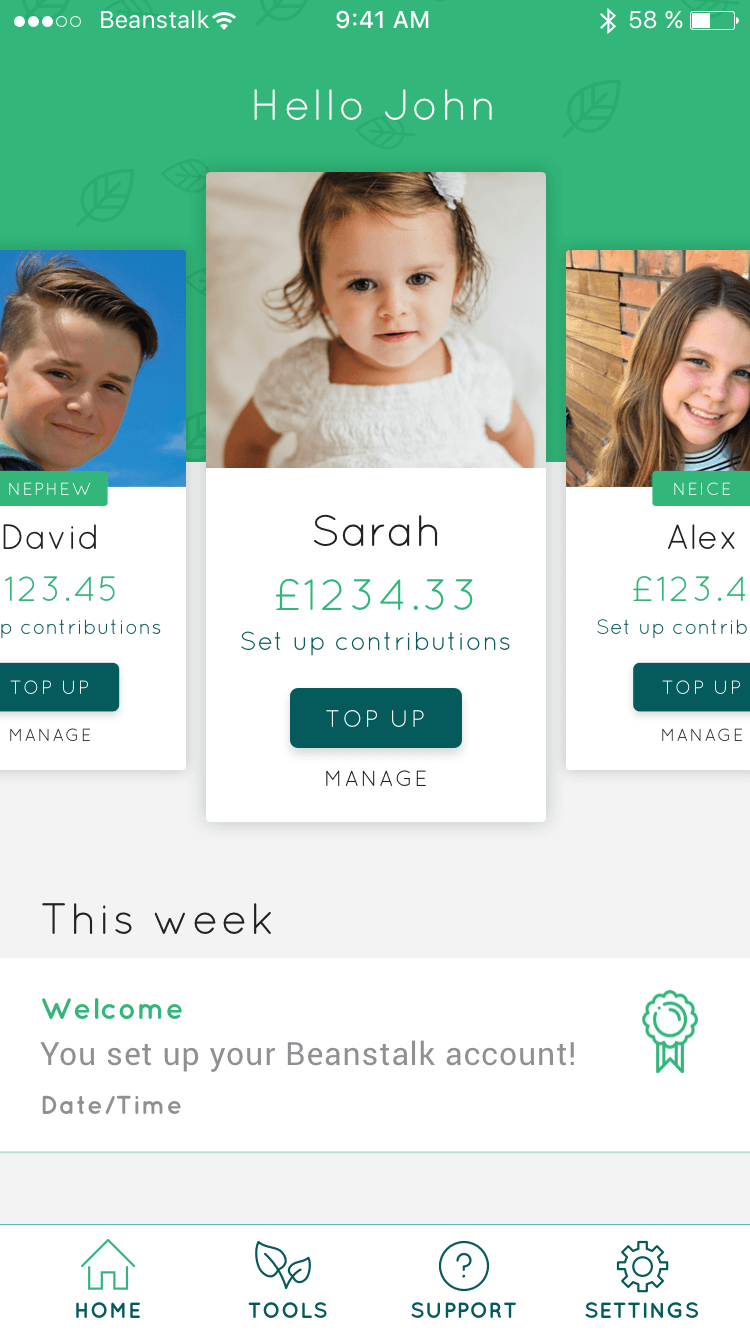
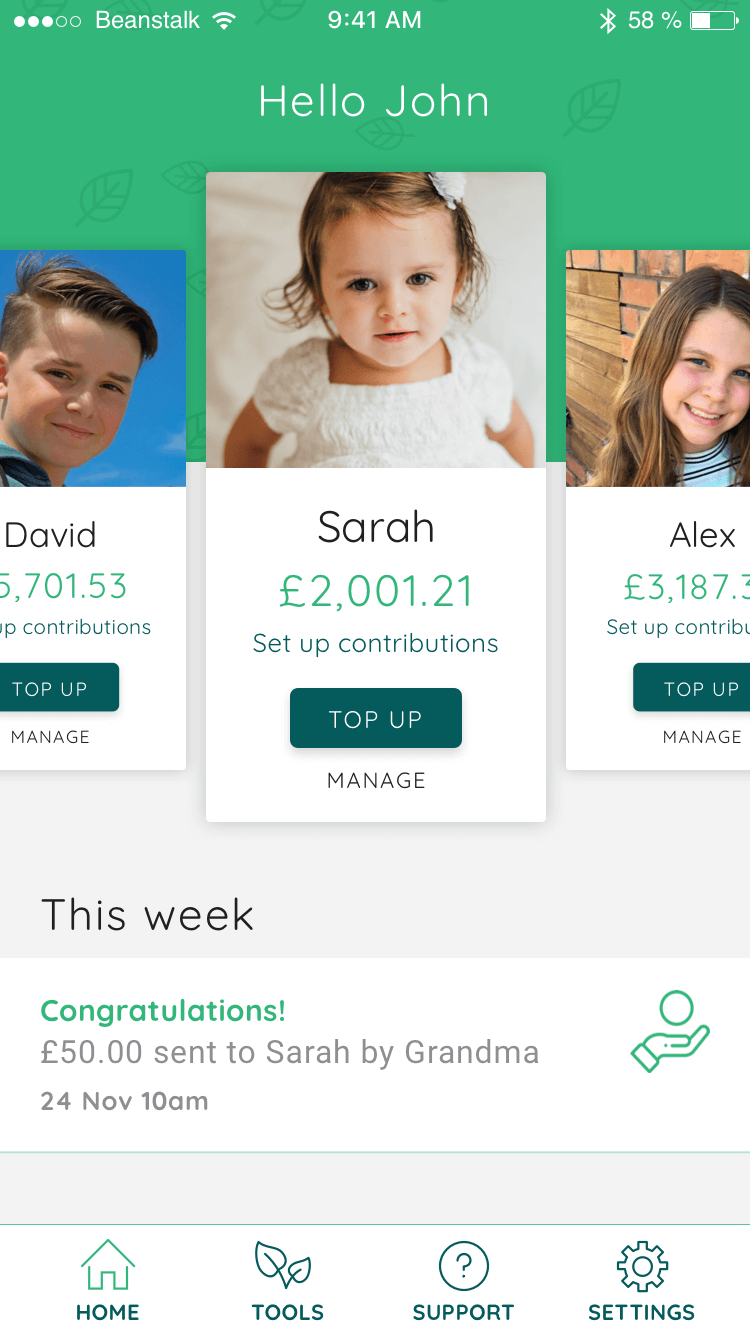
Update

diff --git a/src/components/homepage/homepage.js b/src/components/homepage/homepage.js
@@ -17,8 +17,13 @@ import footerLogoSecondary from './images/footer_logo___secondary.svg';
 
 import iconPiggybank from './images/icon_piggybank.svg';
 import iconCashInHand from './images/icon_cash-in-hand.svg';
+import iconCashInHandSecondary from './images/icon_top-ups--secondary.svg';
 import iconRosette from './images/icon_rosette.svg';
 import iconFamily from './images/icon_family.svg';
+import iconWallet from './images/icon_wallet.svg';
+import iconNameLabel from './images/icon_nameLabel.svg';
+
+const sarahSlug = <span>£50.00 sent to Sarah by Jane Doe.<br/> <strong>Happy birthday to little…</strong></span>
 
 const Homepage = () => {
   return (
@@ -100,16 +105,16 @@ const Homepage = () => {
             </p>
           </Point>
           <div className={styles.Homepage_topUps}>
-            <TopUp recipient={'£100 sent to Sarah'} date={'Date/Time'} order={TOP_UP_ORDER.FIRST}/>
-            <TopUp recipient={'£100 sent to Sarah'} date={'Date/Time'} order={TOP_UP_ORDER.SECOND}/>
-            <TopUp recipient={'£100 sent to Sarah'} date={'Date/Time'} order={TOP_UP_ORDER.THIRD}/>
+            <TopUp title={'Child top up'} recipient={'£100 sent to Sarah'} date={'24 Nov 10am'} icon={iconWallet} order={TOP_UP_ORDER.FIRST}/>
+            <TopUp title={'KidStart Savings'} recipient={'£100 sent to Sarah'} date={'24 Nov 10am'} icon={iconWallet} order={TOP_UP_ORDER.SECOND}/>
+            <TopUp title={'Round Ups Total'} recipient={'£100 sent to Sarah'} date={'24 Nov 10am'} icon={iconWallet} order={TOP_UP_ORDER.THIRD}/>
           </div>
         </Column>
         <Column className={`${styles.Homepage_column___figure} ${styles.Homepage_column___figure___homepage}`}>
           <div className={styles.Homepage_topUps___desktop}>
-            <TopUp recipient={'£100 sent to Sarah'} date={'Date/Time'} order={TOP_UP_ORDER.FIRST}/>
-            <TopUp recipient={'£100 sent to Sarah'} date={'Date/Time'} order={TOP_UP_ORDER.SECOND}/>
-            <TopUp recipient={'£100 sent to Sarah'} date={'Date/Time'} order={TOP_UP_ORDER.THIRD}/>
+            <TopUp title={'Child top up'} recipient={sarahSlug} date={'24 Nov 10am'} icon={iconNameLabel} order={TOP_UP_ORDER.FIRST}/>
+            <TopUp title={'KidStart Savings'} recipient={'£100 sent to Sarah'} date={'24 Nov 10am'} icon={iconCashInHandSecondary} order={TOP_UP_ORDER.SECOND}/>
+            <TopUp title={'Round Ups Total'} recipient={'£100 sent to Sarah'} date={'24 Nov 10am'} icon={iconWallet} order={TOP_UP_ORDER.THIRD}/>
           </div>
         </Column>
       </Section>

diff --git a/src/components/homepage/top-up/top-up.js b/src/components/homepage/top-up/top-up.js
@@ -1,7 +1,6 @@
 import React from 'react';
 import styles from './top-up.module.scss';
 import classnames from 'classnames';
-import iconCashInHand from '../images/icon_cash-in-hand___secondary.svg';
 
 export const TOP_UP_ORDER = {
   FIRST: 'TopUp___first',
@@ -10,10 +9,12 @@ export const TOP_UP_ORDER = {
 }
 
 export const TopUp = ({
+  title,
   order,
   className,
   recipient,
-  date
+  date,
+  icon
 }) => {
   const orderClassnames = classnames(
     styles.TopUp,
@@ -23,7 +24,7 @@ export const TopUp = ({
     <div className={`${orderClassnames} ${styles.TopUp}`}>
       <div className={styles.TopUp_column}>
         <h3 className={styles.TopUp_header}>
-          Your Top Up
+          {title}
         </h3>
         <p className={styles.TopUp_recipient}>
           {recipient}
@@ -33,7 +34,7 @@ export const TopUp = ({
         </p>
       </div>
       <div className={styles.TopUp_column}>
-        <img className={styles.TopUp_icon} width='40' height='40' src={iconCashInHand} alt='Top up icon'/>
+        <img className={styles.TopUp_icon} width='40' height='40' src={icon} alt='Top up icon'/>
       </div>
     </div>
   );

diff --git a/src/components/scss/global/reset.scss b/src/components/scss/global/reset.scss
@@ -61,3 +61,7 @@ input {
 * {
   box-sizing: border-box;
 }
+
+strong {
+  font-weight: 700;
+}
